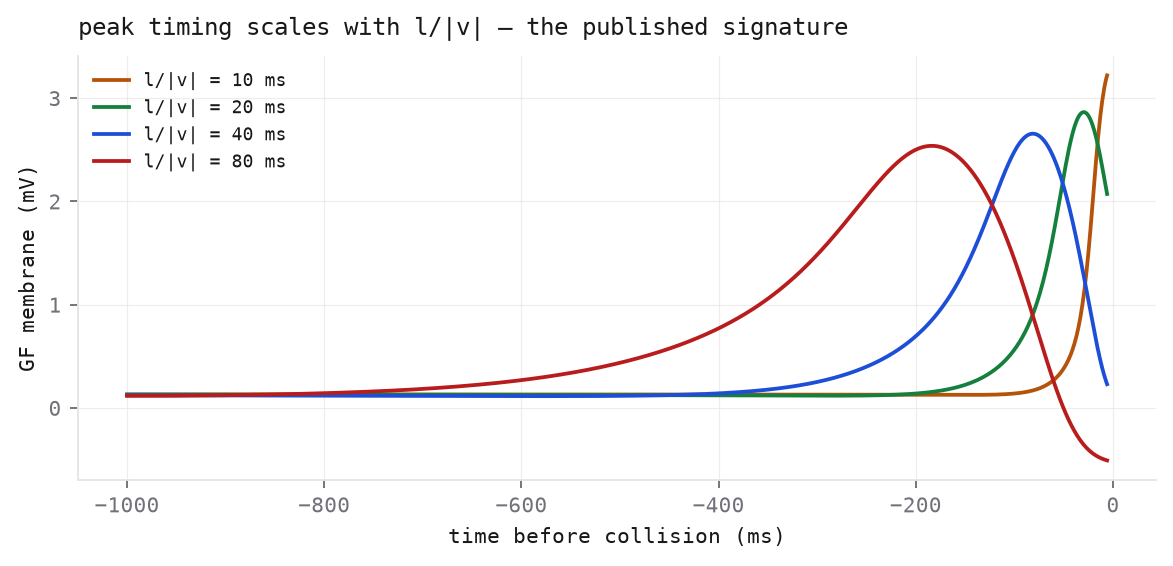
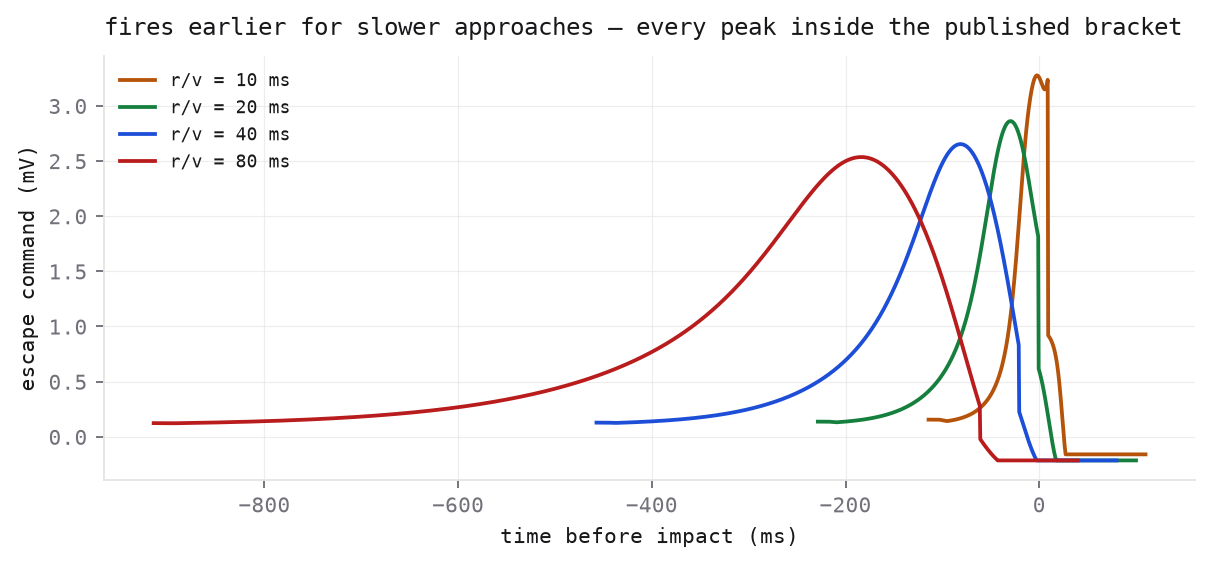
fix demo figure generation; ntx demo now writes all eight figures

diff --git a/neuraltransistor/cli.py b/neuraltransistor/cli.py
@@ -298,6 +298,7 @@ def cmd_demo(args):
     from neuraltransistor import viz
     from neuraltransistor.circuit import noise
     from neuraltransistor.sensors.retina import Retina, build_resampler
+    from neuraltransistor.circuit.extract import from_library
     from neuraltransistor.stimuli import Looming, giant_fiber
     import os
     conn = _conn(args)
@@ -325,13 +326,36 @@ def cmd_demo(args):
                ).savefig(f"{out}/eye-sample.png", bbox_inches="tight")
     print("  eye-sample.png")
     gf = giant_fiber(lo)
-    viz.trace(lo.t_ms, {"LC4 \u00b7 angular velocity": gf["v_LC4"] * 1.62,
-                        "LPLC2 \u00b7 angular size": gf["v_LPLC2"] * 1.45,
-                        "giant fiber": gf["v_GF"]},
-              xlabel="time before collision (ms)", ylabel="mV",
-              title="published giant-fiber model, l/|v| = 40 ms").savefig(
-        f"{out}/gf-model.png", bbox_inches="tight")
+    viz.trace(lo.t_ms, {"LC4 \u00b7 approach speed": gf["v_LC4"] * 1.62,
+                        "LPLC2 \u00b7 object size": gf["v_LPLC2"] * 1.45,
+                        "escape command": gf["v_GF"]},
+              xlabel="time before impact (ms)", ylabel="mV",
+              title="collision detector, object closing at r/v = 40 ms",
+              vlines=[(gf["peak_t_ms"],
+                       f"fires, {gf['peak_size_deg']:.0f}\u00b0 wide", "#b91c1c")]
+              ).savefig(f"{out}/gf-model.png", bbox_inches="tight")
     print("  gf-model.png")
+    sw = {f"r/v = {lv*1000:.0f} ms": (Looming(l_over_v=lv, dt=0.0005).t_ms,
+                                      giant_fiber(Looming(l_over_v=lv, dt=0.0005))["v_GF"])
+          for lv in (0.010, 0.020, 0.040, 0.080)}
+    viz.trace(None, sw, xlabel="time before impact (ms)",
+              ylabel="escape command (mV)",
+              title="fires earlier for slower approaches \u2014 every peak inside the "
+                    "published bracket").savefig(f"{out}/gf-sweep.png", bbox_inches="tight")
+    print("  gf-sweep.png")
+    from neuraltransistor.morph import retarget as _R, spec as _M
+    from neuraltransistor.recipe import build_all
+    legs = from_library(conn, "legs_all"); dec = _M.decode_motor(legs, conn.neurons)
+    with viz.style() as _p:
+        f2, axes = _p.subplots(1, 3, figsize=(12.6, 4.8))
+    for ax, (nm, g) in zip(axes, [("hexapod", "tripod"), ("quadruped", "trot"),
+                                  ("biped", "alternate")]):
+        m = _M.BUILTIN[nm](); viz.morphology(m, _R.retarget(m, dec, gait=g), ax=ax)
+    f2.savefig(f"{out}/form-factors.png", bbox_inches="tight")
+    print("  form-factors.png")
+    viz.recipes(build_all(conn, "out", emit=False, verbose=False)).savefig(
+        f"{out}/recipes.png", bbox_inches="tight")
+    print("  recipes.png")
 
 
 def cmd_ui(args):

diff --git a/neuraltransistor/viz/plot.py b/neuraltransistor/viz/plot.py
@@ -190,11 +190,17 @@ def ring(theta, rates, ax=None, figsize=(4.6, 4.6), title=None, label=None):
 
 def trace(t, series: dict, ax=None, figsize=(7.2, 3.4), xlabel="time (ms)",
           ylabel="", title=None, vlines=None):
-    """Time series, one line per key."""
+    """Time series, one line per key.
+
+    A series value may be a plain y array (sharing ``t``) or a ``(t, y)`` pair, because
+    traces that came from different stimuli legitimately have different lengths and
+    forcing them onto one time base is how you get a shape error instead of a plot.
+    """
     with style() as plt:
         fig, ax = _fig(ax, figsize)
         for (name, y), col in zip(series.items(), SERIES):
-            ax.plot(t, y, color=col, lw=1.6, label=name)
+            tx, yy = (y if isinstance(y, tuple) else (t, y))
+            ax.plot(tx, yy, color=col, lw=1.6, label=name)
         for v, lab, col in (vlines or []):
             ax.axvline(v, color=col, lw=1.0, ls=(0, (4, 3)))
             if lab:
